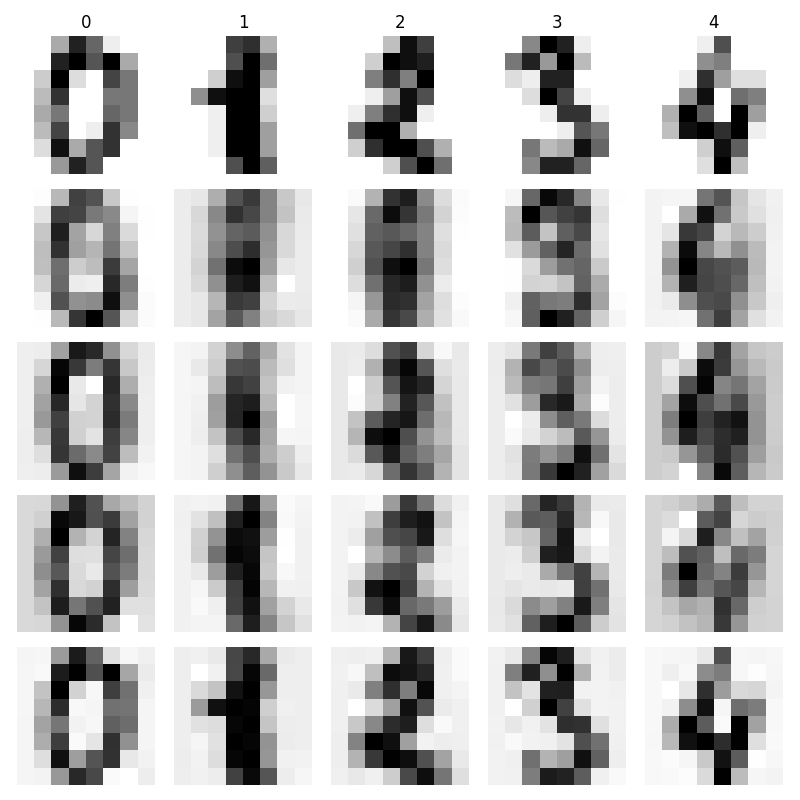
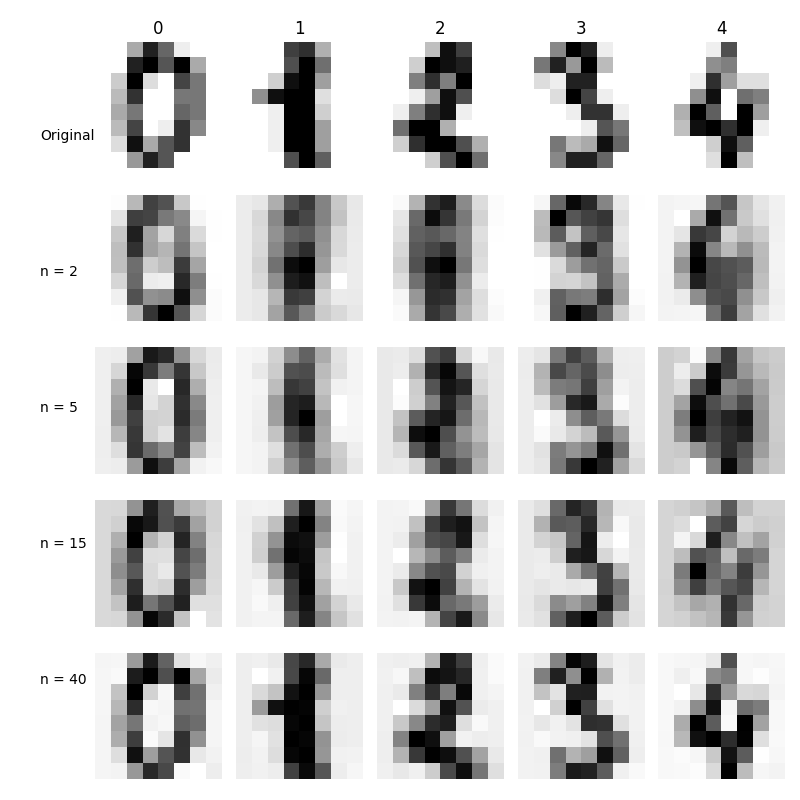
Fix Assignment 3 warmup feedback

diff --git a/assignments_03/warmup_03.py b/assignments_03/warmup_03.py
@@ -107,7 +107,10 @@ display = ConfusionMatrixDisplay(
 display.plot()
 
 plt.tight_layout()
-plt.savefig("assignments_03/outputs/knn_confusion_matrix.png")
+plt.savefig(
+    "assignments_03/outputs/pca_reconstructions.png",
+    bbox_inches="tight"
+)
 plt.close()
 
 # The model does not confuse any species because all predictions are correct.
@@ -244,7 +247,6 @@ for i in range(5):
     axes[0, i].set_title(str(y_digits[i]))
     axes[0, i].axis("off")
 
-axes[0, 0].set_ylabel(row_labels[0], fontsize=10)
 
 
 # Reconstruction rows
@@ -255,8 +257,15 @@ for row, n in enumerate(component_values, start=1):
         axes[row, i].imshow(reconstructed_image, cmap="gray_r")
         axes[row, i].axis("off")
 
-    axes[row, 0].set_ylabel(row_labels[row], fontsize=10)
-plt.tight_layout()
+
+# Add row labels
+fig.text(0.05, 0.83, "Original", va="center", fontsize=10)
+fig.text(0.05, 0.66, "n = 2", va="center", fontsize=10)
+fig.text(0.05, 0.49, "n = 5", va="center", fontsize=10)
+fig.text(0.05, 0.32, "n = 15", va="center", fontsize=10)
+fig.text(0.05, 0.15, "n = 40", va="center", fontsize=10)
+
+plt.tight_layout(rect=[0.10, 0, 1, 1])
 plt.savefig("assignments_03/outputs/pca_reconstructions.png")
 plt.close()
 
